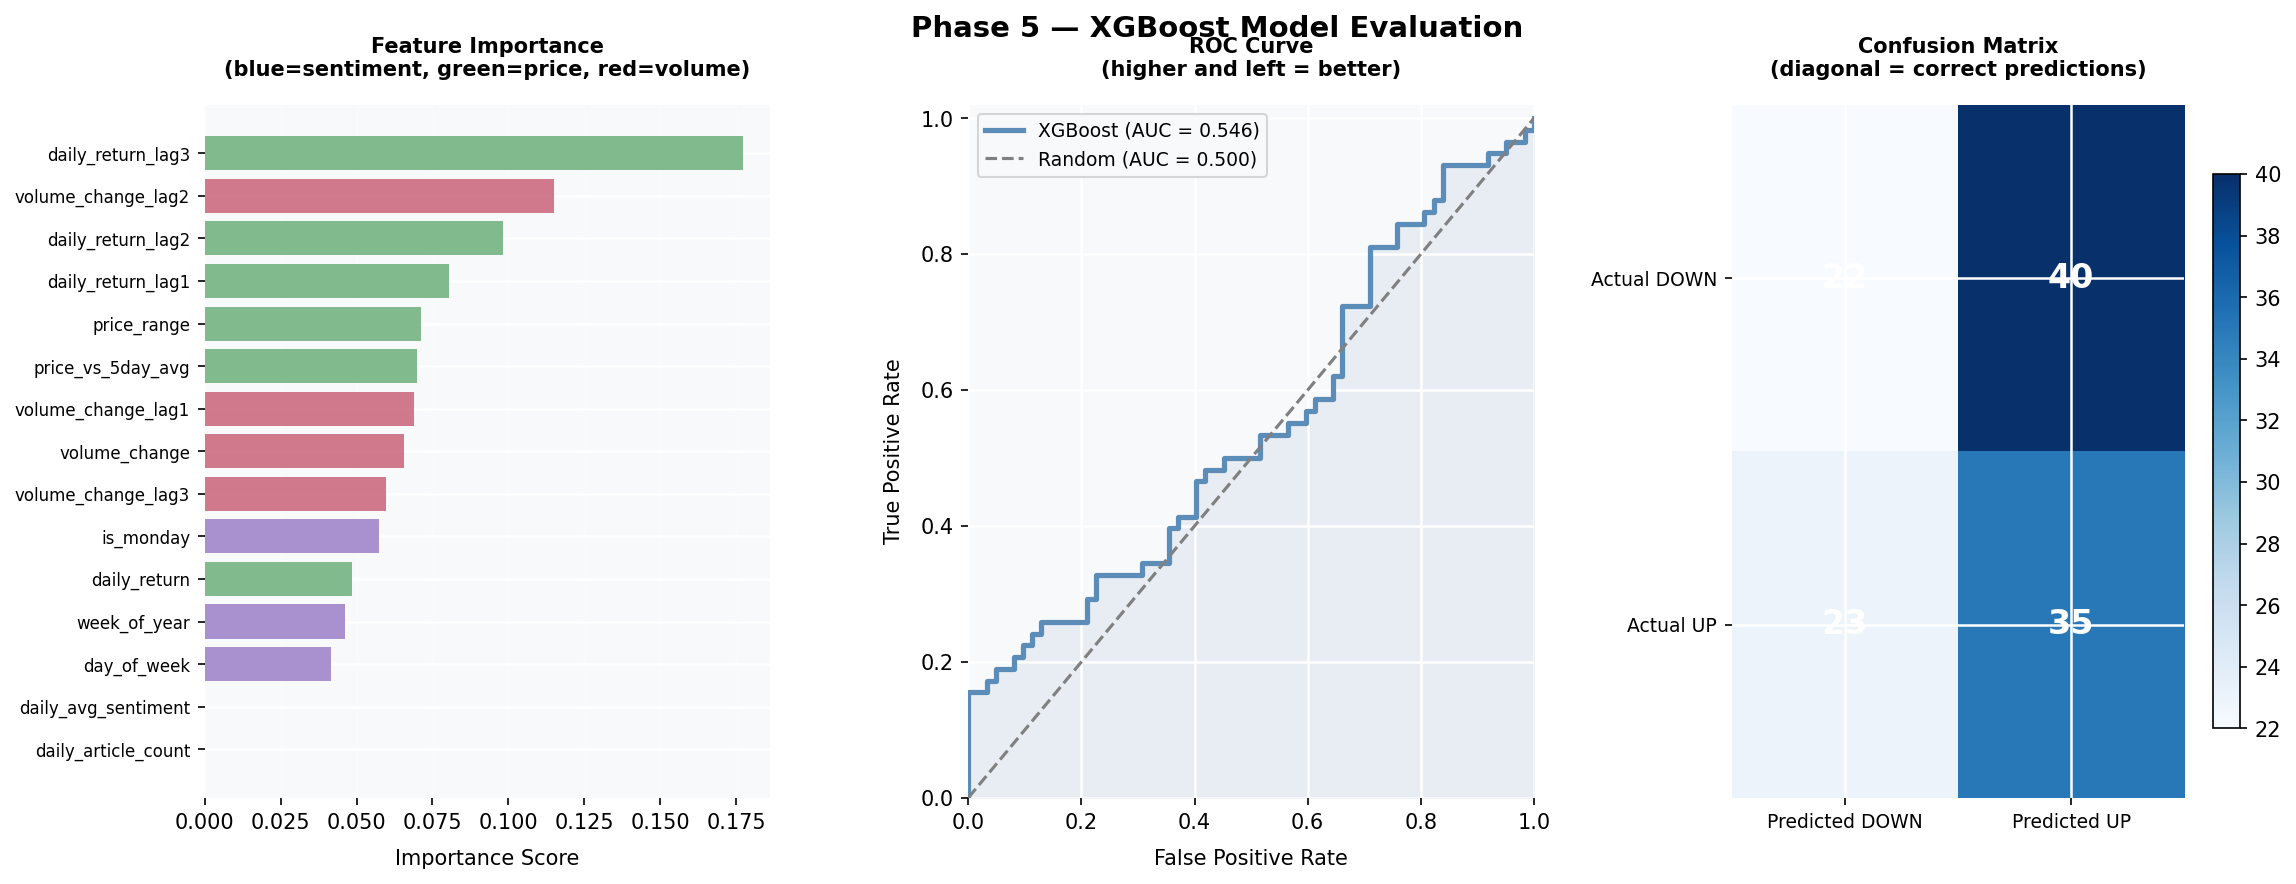
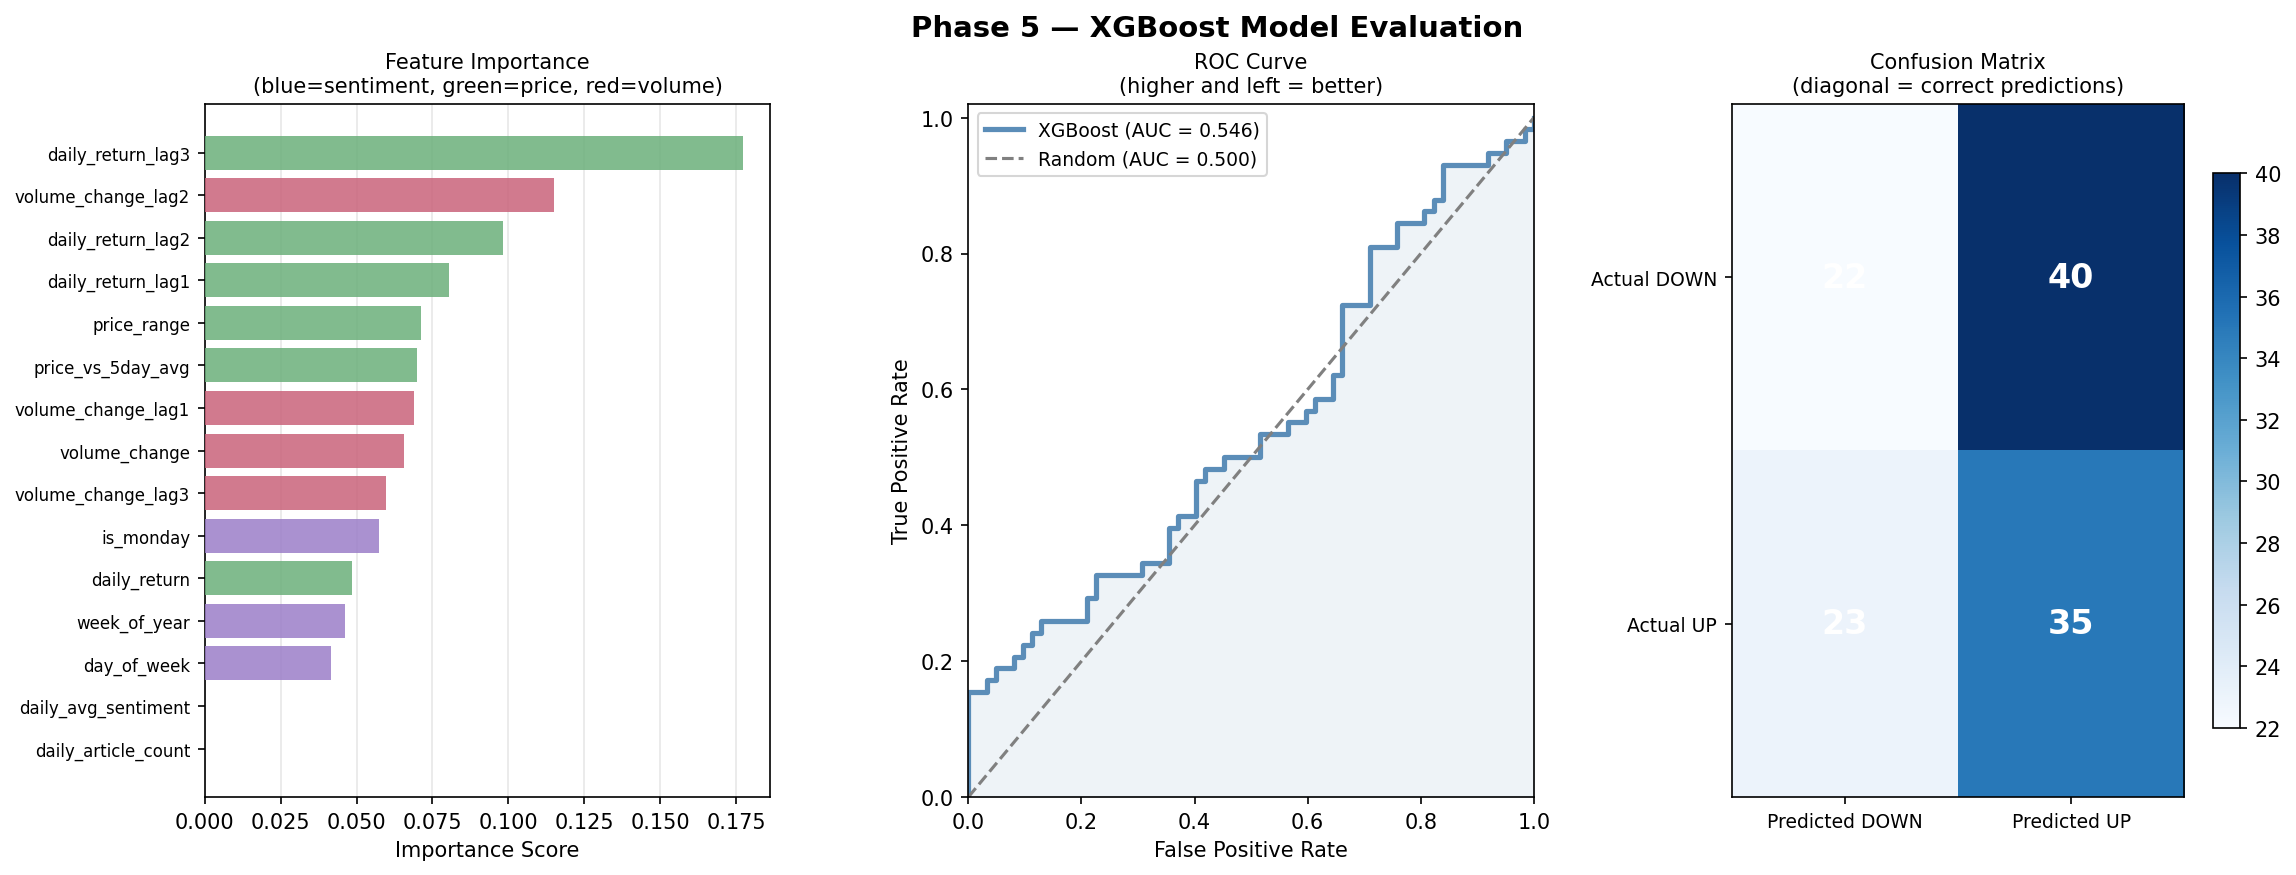
fix: correct indentation in daily_update.py backup section

diff --git a/scripts/daily_update.py b/scripts/daily_update.py
@@ -44,7 +44,7 @@ def run_daily_update():
     print(f"Daily update started: {datetime.now()}")
     print(f"Companies: {COMPANIES}")
     print()
-    
+
 # step 0: BACKUP existing data BEFORE collection overwrites it
     # WHY: collect_all_companies() saves directly to RAW_DATA_PATH,
     # overwriting it with only today's articles. We must preserve
@@ -54,10 +54,25 @@ def run_daily_update():
     if os.path.exists(raw_path):
         df_existing = pd.read_csv(raw_path)
         print(f"Existing articles BEFORE collection: {len(df_existing)}")
-        print(f"Existing dates: {sorted(df_existing['date_clean'].unique())}")
+        if 'date_clean' in df_existing.columns:
+            print(f"Existing dates: {sorted(df_existing['date_clean'].unique())}")
+        else:
+            print("Existing file has no date_clean column — adding it now")
+            if 'date' in df_existing.columns:
+                def safe_date(d):
+                    try:
+                        return datetime.strptime(
+                            d, "%d %B %Y, %I:%M %p UTC"
+                        ).strftime("%Y-%m-%d")
+                    except Exception:
+                        return "unknown"
+                df_existing['date_clean'] = df_existing['date'].apply(safe_date)
+                df_existing = df_existing[
+                    df_existing['date_clean'] != 'unknown'
+                ]
     else:
         df_existing = pd.DataFrame()
-        print("No existing data found")
+        print("No existing data found — starting fresh")
 
     # step 1: collect new articles
     # NOTE: this OVERWRITES raw_path with only today's articles
